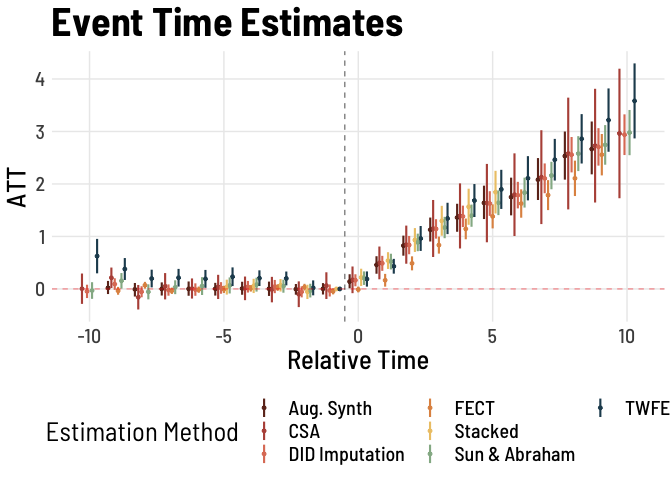
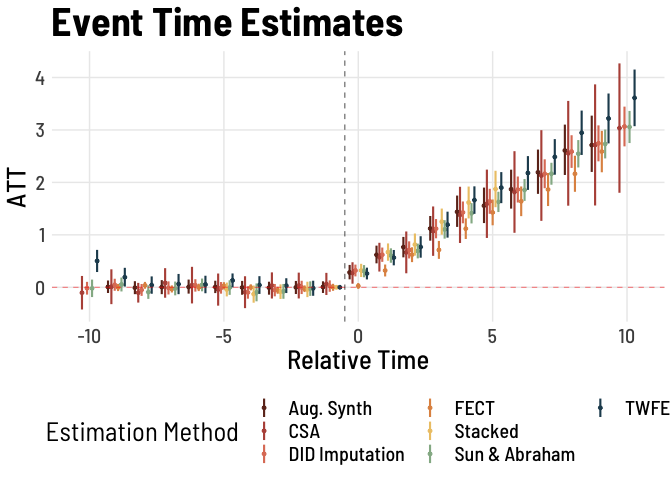
disclaimer

diff --git a/ComparingDiD.md b/ComparingDiD.md
@@ -5,6 +5,12 @@ Florian M. Hollenbach
 
 # Comparing different staggered Difference-in-Differences Estimators
 
+**Note: this is not supposed to be an evaluation of the different
+estimators/packages.**
+
+Let’s load packages and set up the ggplot theme, which is stolen from
+[Andrew Heiss](https://www.andrewheiss.com/).
+
     ## Loading required package: fixest
 
     ## ── Attaching packages ────────────────────────────────── tidyverse 1.3.1.9000 ──
@@ -260,21 +266,21 @@ fect.res <- data %>%
     ## Criterion: Mean Squared Prediction Error
     ## Interactive fixed effects model...
     ## 
-    ##  r = 0; sigma2 = 0.24222; IC = -0.99712; PC = 0.23017; MSPE = 0.24709; GMSPE = 0.06618; Moment = 0.07233; MSPTATT = 0.00220; MSE = 0.23251*
-    ##  r = 1; sigma2 = 0.23302; IC = -0.61861; PC = 0.27625; MSPE = 0.27944; GMSPE = 0.07793; Moment = 0.08554; MSPTATT = 0.00207; MSE = 0.20686
-    ##  r = 2; sigma2 = 0.22663; IC = -0.23278; PC = 0.32208; MSPE = 0.33906; GMSPE = 0.08744; Moment = 0.07140; MSPTATT = 0.00211; MSE = 0.18861
-    ##  r = 3; sigma2 = 0.21913; IC = 0.14362; PC = 0.36315; MSPE = 0.37461; GMSPE = 0.09406; Moment = 0.06142; MSPTATT = 0.00115; MSE = 0.16827
-    ##  r = 4; sigma2 = 0.21324; IC = 0.52281; PC = 0.40381; MSPE = 0.47464; GMSPE = 0.11494; Moment = 0.08073; MSPTATT = 0.00103; MSE = 0.15085
-    ##  r = 5; sigma2 = 0.20694; IC = 0.89573; PC = 0.44091; MSPE = 0.63652; GMSPE = 0.13871; Moment = 0.09578; MSPTATT = 0.00096; MSE = 0.13438
+    ##  r = 0; sigma2 = 0.25379; IC = -0.96213; PC = 0.24156; MSPE = 0.25526; GMSPE = 0.07352; Moment = 0.05304; MSPTATT = 0.00107; MSE = 0.24228*
+    ##  r = 1; sigma2 = 0.24502; IC = -0.59162; PC = 0.28905; MSPE = 0.29780; GMSPE = 0.07941; Moment = 0.06136; MSPTATT = 0.00098; MSE = 0.21752
+    ##  r = 2; sigma2 = 0.23688; IC = -0.22324; PC = 0.33351; MSPE = 0.38568; GMSPE = 0.08943; Moment = 0.06746; MSPTATT = 0.00084; MSE = 0.19708
+    ##  r = 3; sigma2 = 0.22810; IC = 0.13767; PC = 0.37331; MSPE = 0.45284; GMSPE = 0.10282; Moment = 0.07386; MSPTATT = 0.00078; MSE = 0.17498
+    ##  r = 4; sigma2 = 0.22079; IC = 0.50028; PC = 0.41191; MSPE = 0.48807; GMSPE = 0.11169; Moment = 0.09266; MSPTATT = 0.00074; MSE = 0.15660
+    ##  r = 5; sigma2 = 0.21440; IC = 0.86266; PC = 0.44921; MSPE = 0.54177; GMSPE = 0.13264; Moment = 0.09494; MSPTATT = 0.00057; MSE = 0.13846
     ## 
     ##  r* = 0
     ## 
     ## Matrix completion method...
     ## 
-    ##  lambda.norm = 1.00000; MSPE = 0.24709; GMSPE = 0.06618; Moment = 0.07233; MSPTATT = 0.00220; MSE = 0.23251*
-    ##  lambda.norm = 0.42170; MSPE = 0.26313; GMSPE = 0.07681; Moment = 0.07163; MSPTATT = 0.00066; MSE = 0.07581
-    ##  lambda.norm = 0.17783; MSPE = 0.26848; GMSPE = 0.07548; Moment = 0.07174; MSPTATT = 0.00012; MSE = 0.01397
-    ##  lambda.norm = 0.07499; MSPE = 0.26538; GMSPE = 0.07532; Moment = 0.07183; MSPTATT = 0.00002; MSE = 0.00249
+    ##  lambda.norm = 1.00000; MSPE = 0.25526; GMSPE = 0.07352; Moment = 0.05304; MSPTATT = 0.00107; MSE = 0.24228*
+    ##  lambda.norm = 0.42170; MSPE = 0.26323; GMSPE = 0.07527; Moment = 0.05627; MSPTATT = 0.00036; MSE = 0.08194
+    ##  lambda.norm = 0.17783; MSPE = 0.27379; GMSPE = 0.07779; Moment = 0.05590; MSPTATT = 0.00007; MSE = 0.01507
+    ##  lambda.norm = 0.07499; MSPE = 0.27120; GMSPE = 0.07630; Moment = 0.05564; MSPTATT = 0.00001; MSE = 0.00269
     ## 
     ##  lambda.norm* = 1
     ## 
@@ -291,8 +297,8 @@ fect.res <- data %>%
     ## 
     ## ATT:
     ##                             ATT   S.E. CI.lower CI.upper p.value
-    ## Tr obs equally weighted   3.916 0.3202    3.288    4.543       0
-    ## Tr units equally weighted 2.972 0.2689    2.445    3.499       0
+    ## Tr obs equally weighted   4.210 0.3410    3.541    4.878       0
+    ## Tr units equally weighted 3.073 0.2917    2.502    3.645       0
 
 ``` r
 fect <- fect.res$est.att %>% 
